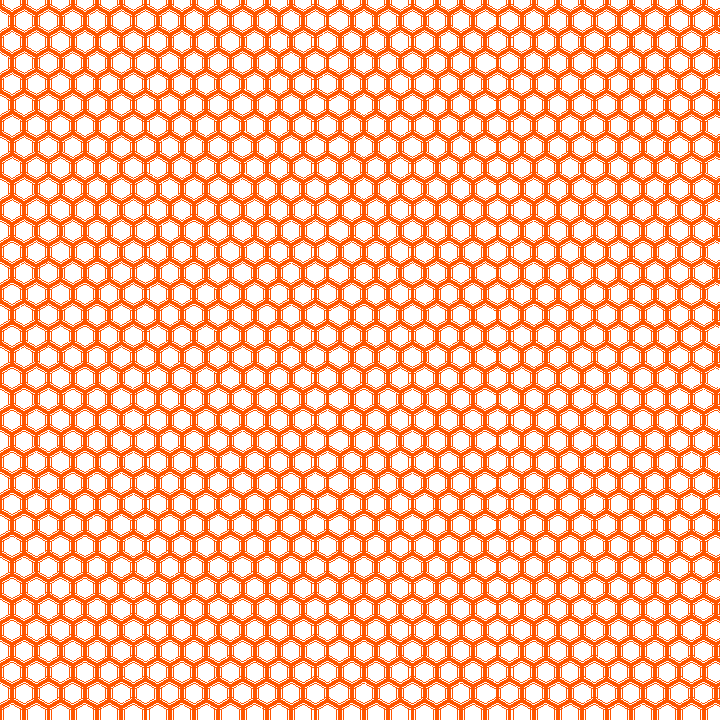
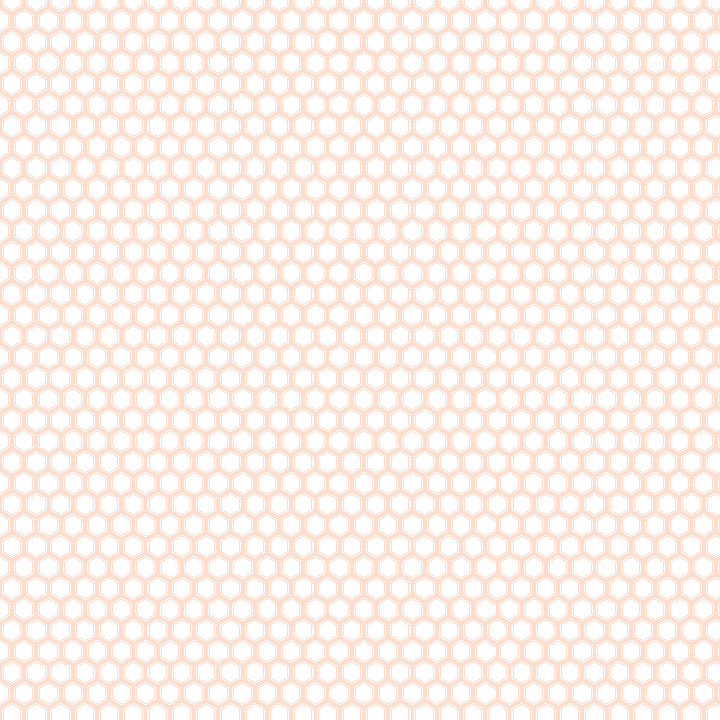
animacion categorias

diff --git a/js/main.js b/js/main.js
@@ -39,8 +39,147 @@ $(document).ready(function(){
           autoplay: true,
           autoplaySpeed: 1000
 });
-    
-    
+    $('.botonizq').on('mouseenter',function(){
+        console.log("hola");
+        $(".mc").css("background-image", "url(" + root + "images/famarillo.png)");
+        $(".mc").css("background-repeat", "repeat");
+        $(".mc").css("background-size", "100px");
+        $("#header-categorias").css("transition", "3s");
+        $("#header-categorias").css("border-color", "#ccff00");
+        
+    })
+    $('.botonizq').on('mouseleave',function(){
+        console.log("dios");
+        $(".mc").css("background", "");
+        $("#header-categorias").css("border-color", "#C8E2E2");
+    })
+    $('.b2').on('mouseenter',function(){
+        console.log("hola");
+        $(".mc").css("background-image", "url(" + root + "images/fverde.png)");
+        $(".mc").css("background-repeat", "repeat");
+        $(".mc").css("background-size", "100px");
+        $("#header-categorias").css("transition", "3s");
+        $("#header-categorias").css("border-color", "#39ff14");
+        
+    })
+    $('.b2').on('mouseleave',function(){
+        console.log("dios");
+        $(".mc").css("background", "");
+        $("#header-categorias").css("border-color", "#C8E2E2");
+    })
+    $('.b3').on('mouseenter',function(){
+        console.log("hola");
+        $(".mc").css("background-image", "url(" + root + "images/frojo.png)");
+        $(".mc").css("background-repeat", "repeat");
+        $(".mc").css("background-size", "100px");
+        $("#header-categorias").css("transition", "3s");
+        $("#header-categorias").css("border-color", "#FE0000");
+        
+    })
+    $('.b3').on('mouseleave',function(){
+        console.log("dios");
+        $(".mc").css("background", "");
+        $("#header-categorias").css("border-color", "#C8E2E2");
+    })  
+    $('.b4').on('mouseenter',function(){
+        console.log("hola");
+        $(".mc").css("background-image", "url(" + root + "images/frosa.png)");
+        $(".mc").css("background-repeat", "repeat");
+        $(".mc").css("background-size", "100px");
+        $("#header-categorias").css("transition", "3s");
+        $("#header-categorias").css("border-color", "#FF1493");
+        
+    })
+    $('.b4').on('mouseleave',function(){
+        console.log("dios");
+        $(".mc").css("background", "");
+        $("#header-categorias").css("border-color", "#C8E2E2");
+    })
+    $('.b5').on('mouseenter',function(){
+        console.log("hola");
+        $(".mc").css("background-image", "url(" + root + "images/fnaranja.png)");
+        $(".mc").css("background-repeat", "repeat");
+        $(".mc").css("background-size", "100px");
+        $("#header-categorias").css("transition", "3s");
+        $("#header-categorias").css("border-color", "#FF5601");
+        
+    })
+    $('.b5').on('mouseleave',function(){
+        console.log("dios");
+        $(".mc").css("background", "");
+        $("#header-categorias").css("border-color", "#C8E2E2");
+    })
+    $('.botonder').on('mouseenter',function(){
+        console.log("hola");
+        $(".mc").css("background-image", "url(" + root + "images/fazul.png)");
+        $(".mc").css("background-repeat", "repeat");
+        $(".mc").css("background-size", "100px");
+        $("#header-categorias").css("transition", "3s");
+        $("#header-categorias").css("border-color", "#0098FD");
+        
+    })
+    $('.botonder').on('mouseleave',function(){
+        console.log("dios");
+        $(".mc").css("background", "");
+        $("#header-categorias").css("border-color", "#C8E2E2");
+    })
+
+
+
+
+
+
+
+
+
+
+
+
+
+
+
+
+
+
+
+
+
+
+
+
+
+
+
+
+
+
+
+
+
+
+
+
+
+
+
+
+
+
+
+
+
+
+
+
+
+
+
+
+
+
+
+
+
     $('.eliminar').on('click',function(){
         var id_producto = $(this).attr('data-id');
         var id_carrito = $(this).attr('data-carrito');
@@ -57,6 +196,7 @@ $(document).ready(function(){
             }
         });
     });
+
     function obtener_registros(valorBusqueda){
         var datos = new Array();
         $.ajax({

diff --git a/css/main.css b/css/main.css
@@ -194,12 +194,16 @@ filter: progid:DXImageTransform.Microsoft.gradient( startColorstr='#000000', end
 .mc{
     height: 43px;
     padding-top: 3px;
+    z-index: 0;
+    background: url(../images/blackfondo4352345432.png);
+    background-repeat: repeat;
+    background-size: 400px; 
+    transition: 0.5s;
 }
 .mc:hover{
-    background: url("../images/fverde.png");
+    /* background: url("../images/fverde.png");
     background-repeat: repeat;
-    background-size: 100px;
-    position:relative;
+    background-size: 100px; */
 }
 #navbarTogglerDemo01{
     width: 100%;
